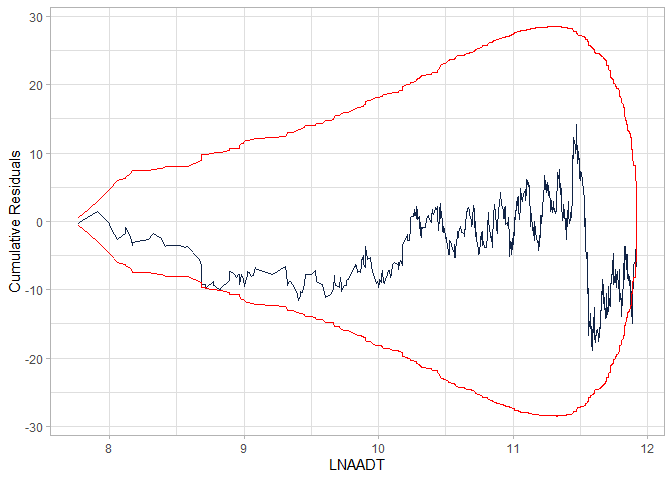
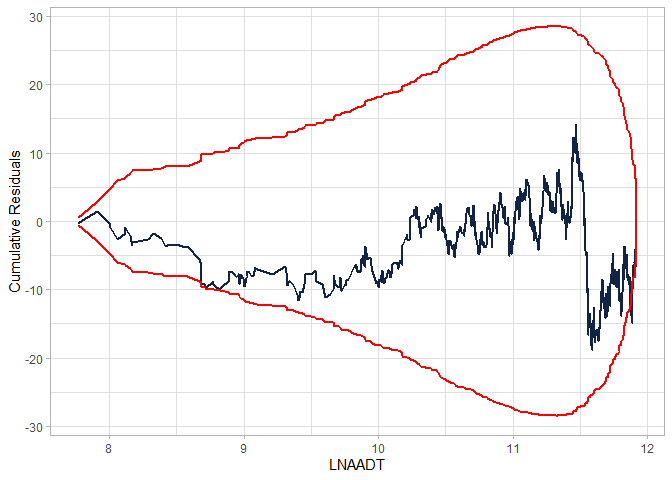
Update readme.

diff --git a/README.md b/README.md
@@ -65,14 +65,12 @@ head(cure_df)
 
 calculate_cure_dataframe(LNAADT, res) |>
   ggplot() +
-  geom_line(aes(x = LNAADT, y = cumres), size = 0.5, colour = "#112446") +
-  geom_line(aes(x = LNAADT, y = upper), size = 0.5, colour = "red") +
-  geom_line(aes(x = LNAADT, y = lower), size = 0.5, colour = "red") +
+  geom_line(aes(x = LNAADT, y = cumres), linewidth = 0.9, colour = "#112446") +
+  geom_line(aes(x = LNAADT, y = upper), linewidth = 0.75, colour = "red") +
+  geom_line(aes(x = LNAADT, y = lower), linewidth = 0.75, colour = "red") +
   labs(x = "LNAADT", y = "Cumulative Residuals") +
   theme_light()
 #> Covariate =  LNAADT
-#> Warning: Using `size` aesthetic for lines was deprecated in ggplot2 3.4.0.
-#> ℹ Please use `linewidth` instead.
 ```
 
 <img src="man/figures/README-example-1.png" width="100%" />
@@ -82,9 +80,9 @@ calculate_cure_dataframe(LNAADT, res) |>
 
 calculate_cure_dataframe(AADT, res) |>
   ggplot() +
-  geom_line(aes(x = AADT, y = cumres), size = 0.5, colour = "#112446") +
-  geom_line(aes(x = AADT, y = upper), size = 0.5, colour = "red") +
-  geom_line(aes(x = AADT, y = lower), size = 0.5, colour = "red") +
+  geom_line(aes(x = AADT, y = cumres), linewidth = 0.9, colour = "#112446") +
+  geom_line(aes(x = AADT, y = upper), linewidth = 0.75, colour = "red") +
+  geom_line(aes(x = AADT, y = lower), linewidth = 0.75, colour = "red") +
   labs(x = "AADT", y = "Cumulative Residuals") +
   theme_light()
 #> Covariate =  AADT
@@ -100,5 +98,12 @@ cure_df <- calculate_cure_dataframe(AADT, res)
 
 cure_plot <- function(x, covariate = NULL) {
   ## x is cure_dataframe or model
+  
 }
 ```
+
+<!-- 
+To do list 
+1. dd 
+2. ccc 
+-->
